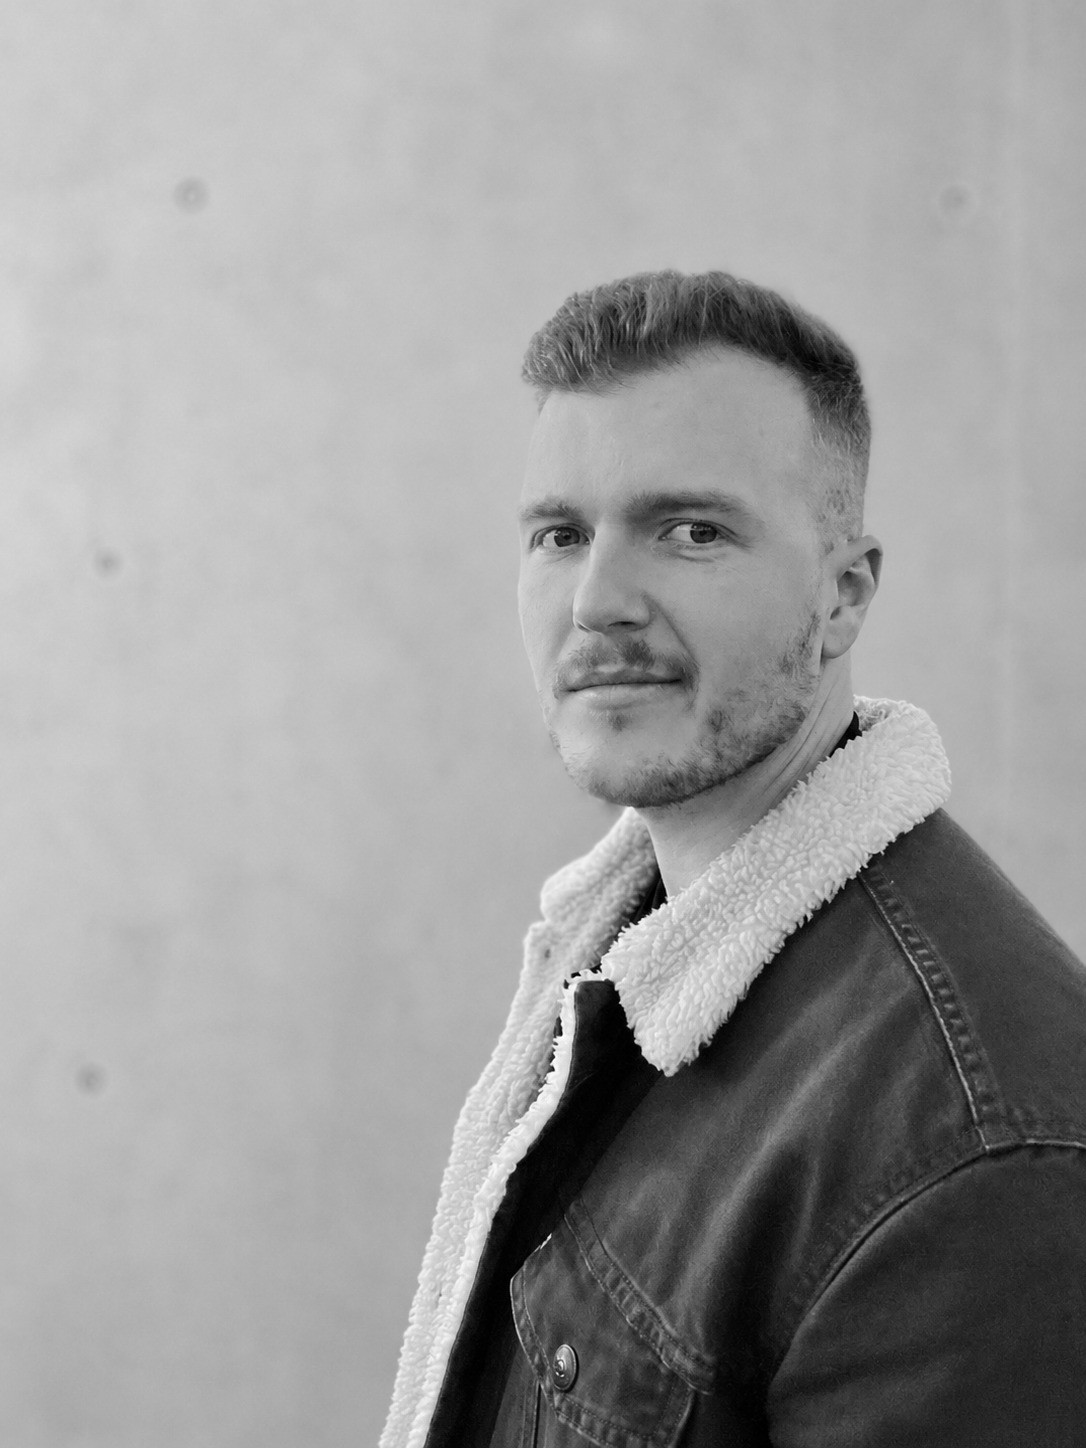
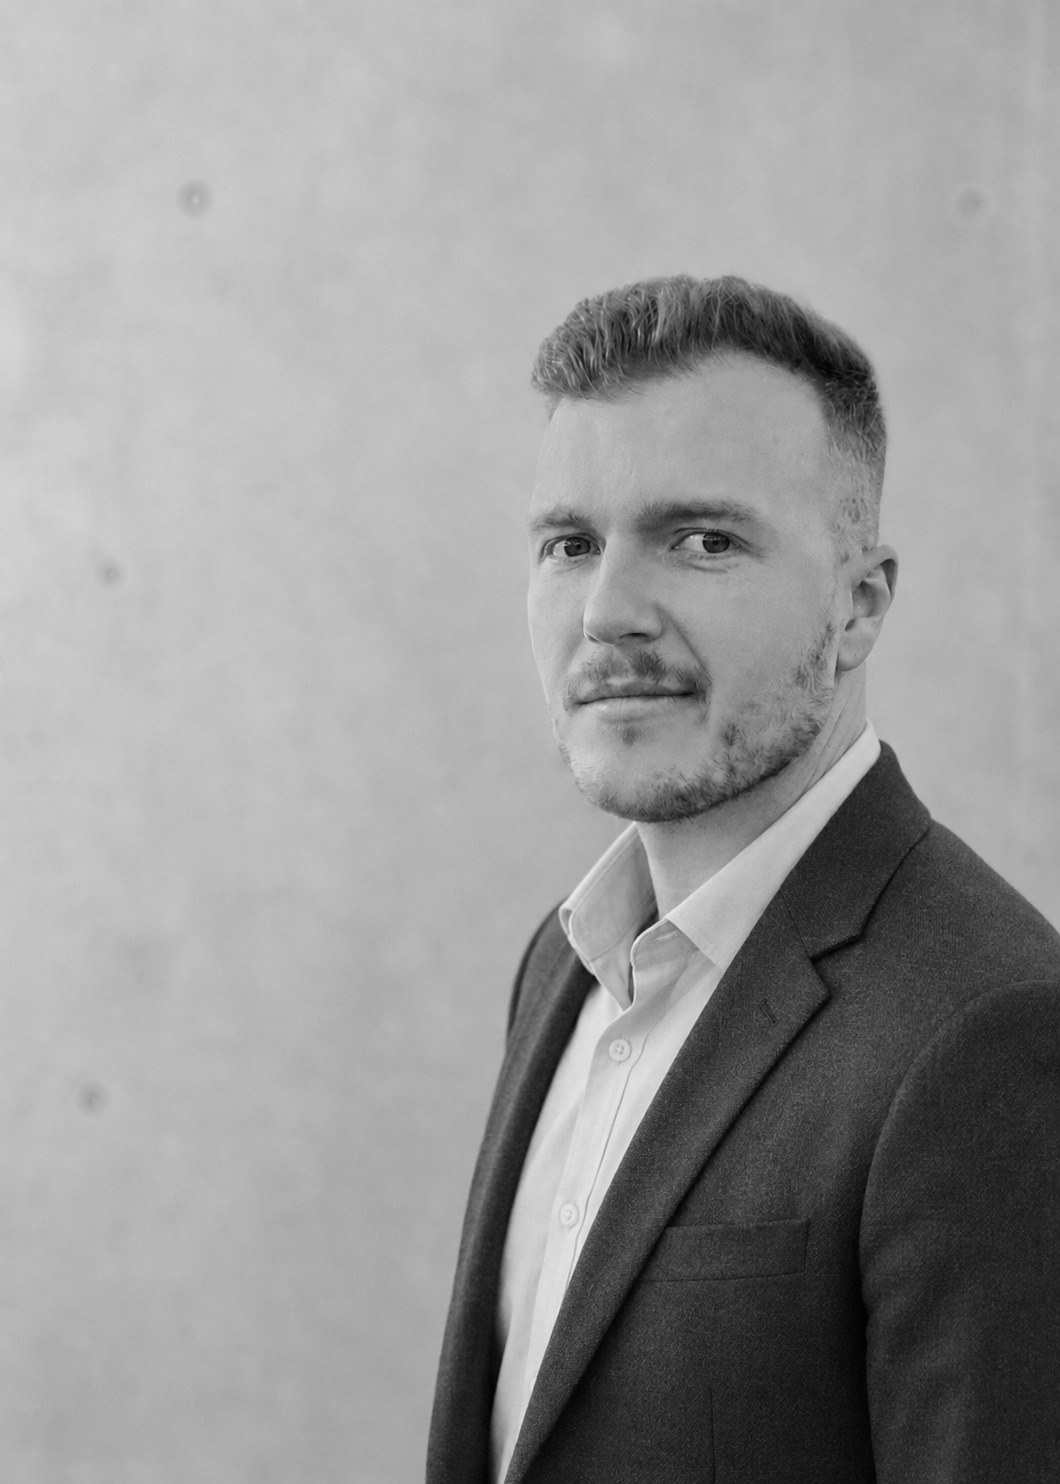
Update Eugen photo, capitalise Procurement/Category Management, fix mobile tag pills

Changed region(s): [[0.3425, 0.1865, 1.0, 1.0], [0.8717, 0.9634, 0.9028, 1.0]]

diff --git a/index.html b/index.html
@@ -270,7 +270,7 @@
               <span class="founder-name">Eugen Müller</span>
               <span class="founder-role">Co-Founder</span>
             </div>
-            <p class="founder-bio">10+ years running procurement and category management at TeamViewer, Scout24, and Delivery Hero, now engineering the AI systems that transform those operations. Every tool Eugen builds starts from a real operational problem: manual triage, slow RFP cycles, fragmented spend data. His focus is on agentic pipelines that deliver measurable efficiency gains, not proof-of-concepts.</p>
+            <p class="founder-bio">10+ years running Procurement and Category Management at TeamViewer, Scout24, and Delivery Hero, now engineering the AI systems that transform those operations. Every tool Eugen builds starts from a real operational problem: manual triage, slow RFP cycles, fragmented spend data. His focus is on agentic pipelines that deliver measurable efficiency gains, not proof-of-concepts.</p>
             <ul class="founder-tags">
               <li>Agentic AI Build</li>
               <li>Process Optimisation</li>

diff --git a/styles.css b/styles.css
@@ -1169,6 +1169,7 @@ address.contact-links { font-style: normal; }
 
   #about, #services, #work, #projects, #faq, #speaking { padding: 5rem 0; }
   .founder-photo { max-height: 300px; }
+  .founder-tags { grid-template-columns: 1fr; }
   .projects-grid { grid-template-columns: 1fr; }
   #deadline, #contact { padding: 5rem 0; }
 